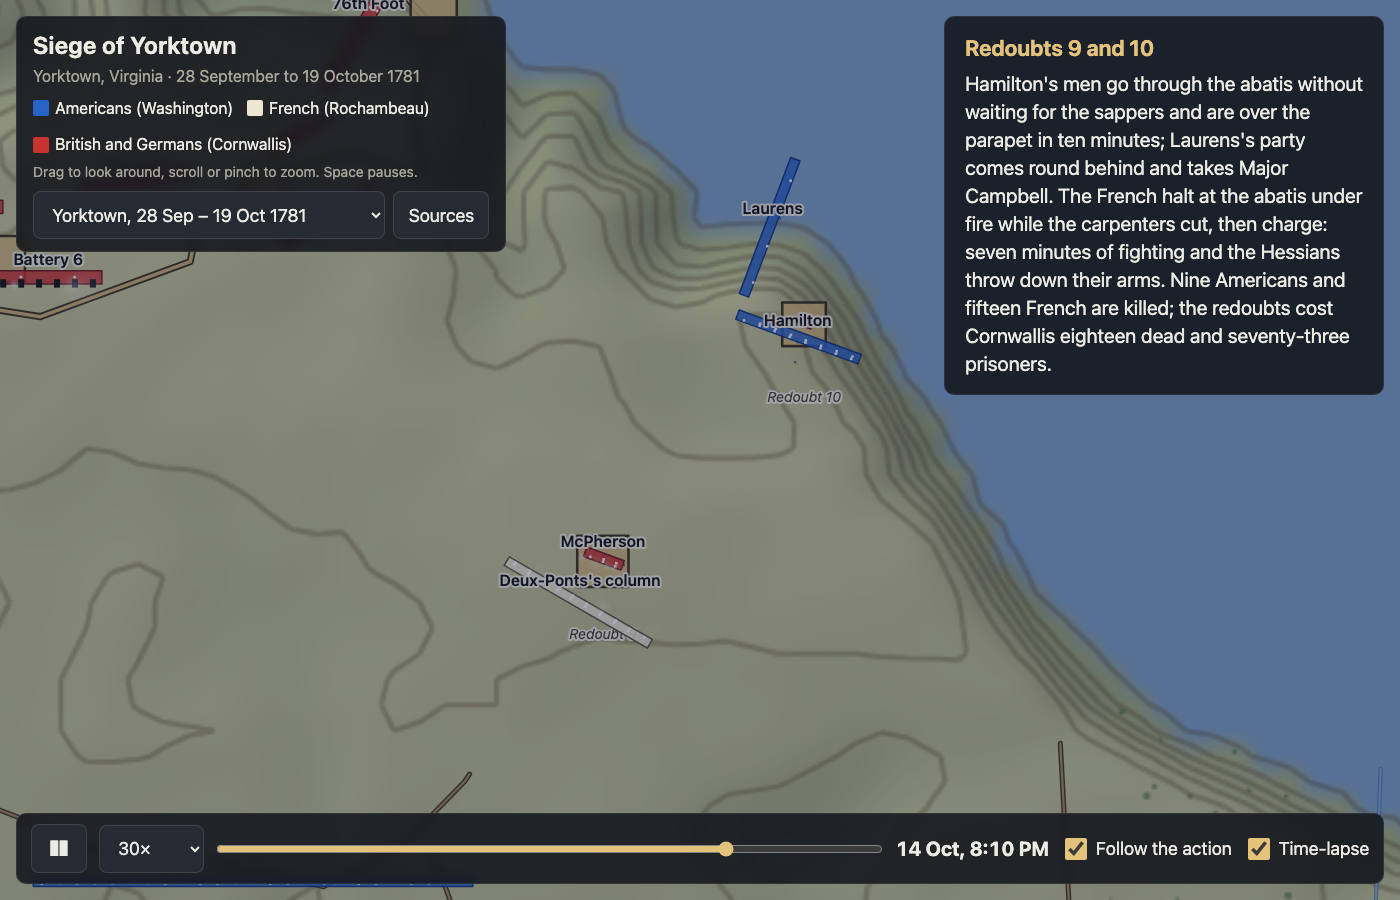
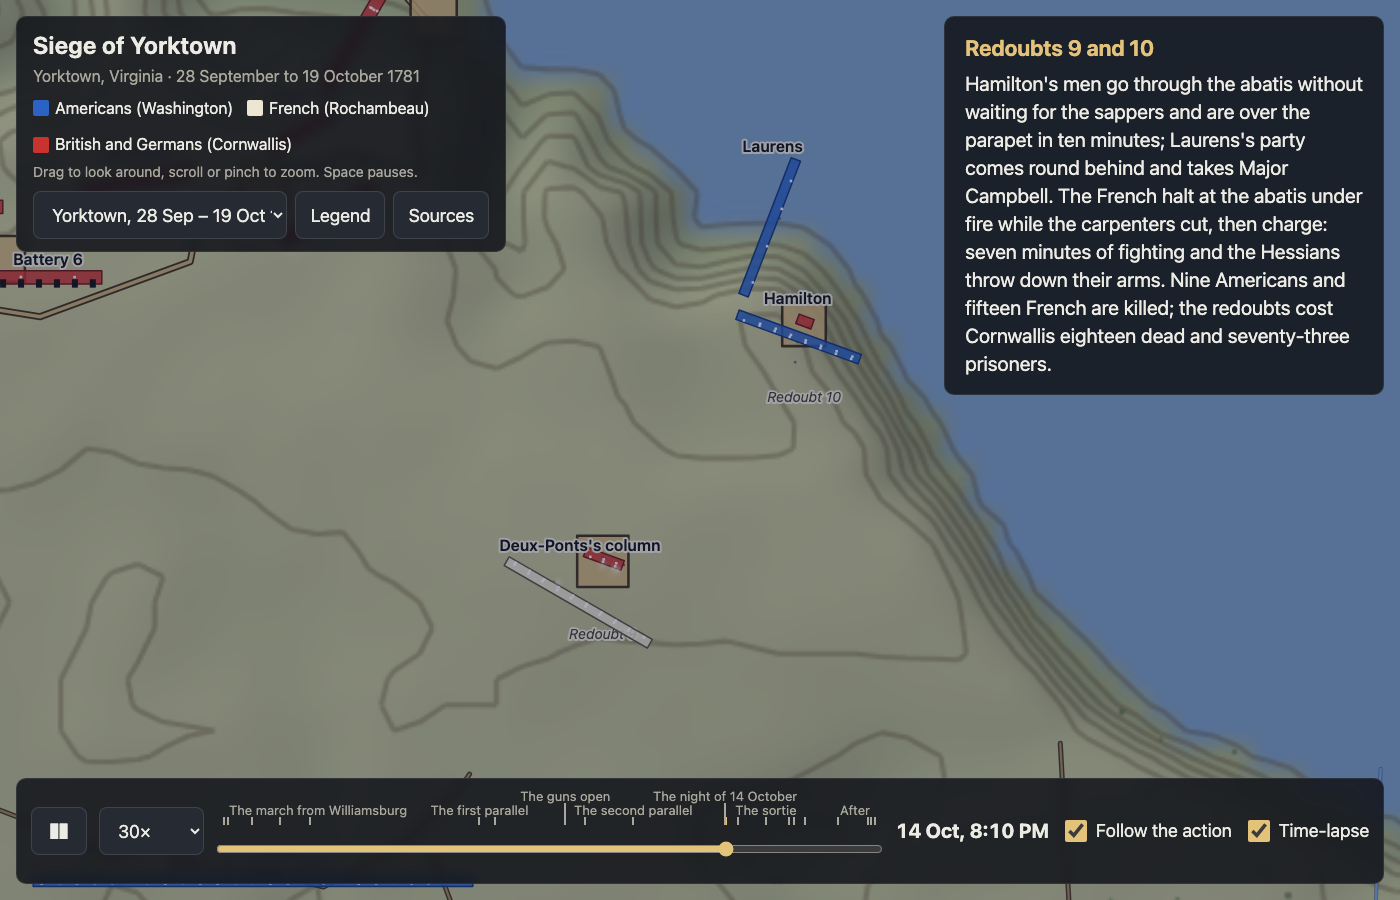
Chapter marks on the scrubber, a legend, labels on every unit
Ticks above the scrubber, one per chapter, labelled on two rows where
they fit; click to jump and follow. A Legend button lists only the
symbols the current battle uses. Every unit now offers a label, so
marching columns are named; overlaps are still dropped biggest first.
Chapter marks are hidden on phones, where the scrubber is too narrow.

Claude-Session: https://claude.ai/code/session_01US5GXUxojnCZWhZHcue3aU

diff --git a/app.js b/app.js
@@ -4,7 +4,8 @@ const $ = s => document.querySelector(s);
 const canvas = $('#map'), ctx = canvas.getContext('2d');
 const ui = { play: $('#play'), speed: $('#speed'), scrub: $('#scrub'), clock: $('#clock'), follow: $('#follow'), battle: $('#battle'),
   title: $('#title'), sub: $('#sub'), legend: $('#legend'), caption: $('#caption'), capTitle: $('#cap-title'), capText: $('#cap-text'),
-  hover: $('#hover'), sources: $('#sources'), srcBtn: $('#src-btn'), srcList: $('#src-list'), lapse: $('#lapse') };
+  hover: $('#hover'), sources: $('#sources'), srcBtn: $('#src-btn'), srcList: $('#src-list'), lapse: $('#lapse'),
+  marks: $('#marks'), legendBtn: $('#legend-btn'), legendDlg: $('#legend-dlg'), legendList: $('#legend-list') };
 
 let B = null, T = null, layer = null;
 let t = 0, playing = false, speed = 10, curEvent = null, shownEvent = null;
@@ -31,6 +32,7 @@ async function loadBattle(id) {
   for (const s of SPEEDS) if (s <= 120 || dur / s >= 120) ui.speed.add(new Option(`${s}×`, s)); // the big speeds only when the battle lasts
   ui.speed.value = speed;
   ui.scrub.min = b.startT; ui.scrub.max = b.endT;
+  buildMarks(b); buildLegend(b);
   ui.title.textContent = b.name;
   ui.sub.textContent = `${b.place} · ${b.dateText ?? b.date}`;
   ui.legend.innerHTML = Object.values(b.sides).map(s => `<span><i style="background:${s.color}"></i>${s.name}</span>`).join('');
@@ -39,9 +41,10 @@ async function loadBattle(id) {
   cam = { x: v.x, y: v.y, zoom: Math.min(W, H) / v.width };
   follow = true; ui.follow.checked = true; lapse = true; ui.lapse.checked = true;
   clampCam();
-  const [, , at, play, warp] = location.hash.match(/^#([^@,]*)(?:@([^,]+))?(,play)?(,warp)?$/) ?? [];
+  const [, , at, play, warp, legend] = location.hash.match(/^#([^@,]*)(?:@([^,]+))?(,play)?(,warp)?(,legend)?$/) ?? [];
   seek(at ? parseTime(at) : b.startT);
   if (play) setPlaying(true);
+  if (legend) ui.legendDlg.showModal(); // screenshots
   document.body.classList.toggle('nofade', !!warp); // screenshots: skip the caption fade
   if (warp) for (let i = 0; i < 300; i++) step(1 / 60); // five seconds of frames for screenshots
   location.hash = id;
@@ -302,7 +305,10 @@ function drawUnits() {
       }
     }
     if (u.type === 'artillery') drawGuns(u, p, z);
-    if (wPx >= 30) labels.push({ text: u.short ?? u.name, x: sx, y: sy - Math.max(hPx, D * z) - 12, size: Math.min(17, 12 + z * 3), men: p.strength });
+    // Every unit offers a label just above its topmost corner (a marching column is narrow but long); the overlap pass below thins them.
+    const s = Math.sin((p.h * Math.PI) / 180), c = Math.cos((p.h * Math.PI) / 180);
+    const top = -Math.abs((wPx / 2) * s) + Math.min(-2 * c, (hPx + 1) * c);
+    labels.push({ text: u.short ?? u.name, x: sx, y: sy + top - 11, size: Math.min(17, 12 + z * 3), men: p.strength });
   }
   // Bigger units get their label first; a label that would overlap one already placed is dropped this frame.
   for (const l of labels.sort((a, b) => b.men - a.men)) {
@@ -367,6 +373,87 @@ function drawNight() {
   ctx.fillRect(0, 0, W, H);
 }
 
+// ---------- chapter marks and legend ----------
+
+// One tick per chapter above the scrubber, labelled where there is room; click to jump there.
+let marks = [];
+function buildMarks(b) {
+  ui.marks.innerHTML = '';
+  marks = b.events.map(ev => {
+    const el = document.createElement('button');
+    el.textContent = ev.title; el.title = `${ev.title} · ${fmtTime(ev.t)}`;
+    el.onclick = () => { follow = true; ui.follow.checked = true; seek(ev.t); };
+    ui.marks.append(el);
+    return el;
+  });
+  layoutMarks();
+}
+// Labels go on the lower row, then the upper row, else become a bare tick. An upper label's tick runs down
+// through the lower row, so neither row may put text across the other's tick.
+function layoutMarks() {
+  const tw = ui.marks.clientWidth, dur = B.endT - B.startT, right = [-Infinity, -Infinity], lows = [], ups = [];
+  marks.forEach((el, i) => {
+    const px = ((B.events[i].t - B.startT) / dur) * tw;
+    el.classList.remove('tick', 'up');
+    const w = el.offsetWidth, L = Math.max(0, Math.min(tw - w, px - w / 2)), R = L + w;
+    let row = -1;
+    if (w < tw && L >= right[0] + 6 && !ups.some(x => x > L - 3 && x < R + 3)) { row = 0; lows.push([L, R]); }
+    else if (w < tw && L >= right[1] + 6 && !lows.some(([a, b]) => px > a - 3 && px < b + 3)) { row = 1; ups.push(px); }
+    if (row < 0) el.classList.add('tick'); else { right[row] = R; if (row) el.classList.add('up'); }
+    const left = row < 0 ? px - 7 : L;
+    el.style.left = `${left}px`; el.style.setProperty('--tick', `${px - left}px`);
+  });
+}
+
+const SVG = (inner, w = 64, h = 28) => `<svg width="${w}" height="${h}" viewBox="0 0 ${w} ${h}" aria-hidden="true">${inner}</svg>`;
+// A unit block as the map draws it: solid body, dark outline, one white dot per menPerDot men.
+function blockSvg(fill, stroke, { w = 56, h = 12, files = 9, ranks = 2, cav = false, alpha = 0.85, dot = 'rgba(255,255,255,0.92)', extra = '' } = {}) {
+  const x0 = (64 - w) / 2, y0 = (28 - h) / 2;
+  let d = '';
+  for (let r = 0; r < ranks; r++) for (let f = 0; f < files; f++)
+    d += `<rect x="${(x0 + (w / files) * (f + 0.5) - 1.5).toFixed(1)}" y="${(y0 + (h / ranks) * (r + 0.5) - (cav ? 3 : 1.5)).toFixed(1)}" width="3" height="${cav ? 6 : 3}" fill="${dot}"/>`;
+  return SVG(`<rect x="${x0}" y="${y0}" width="${w}" height="${h}" fill="${fill}" stroke="${stroke}" stroke-width="1.5" opacity="${alpha}"/>${d}${extra}`);
+}
+const lineSvg = (c1, w1, c2, w2) => SVG(`<path d="M4 14 L60 14" stroke="${c1}" stroke-width="${w1}" stroke-linecap="round"/>${c2 ? `<path d="M4 14 L60 14" stroke="${c2}" stroke-width="${w2}" stroke-linecap="round"/>` : ''}`);
+const polySvg = (pts, fill, bg) => SVG(`${bg}<polygon points="${pts}" fill="${fill}" stroke="rgba(50,35,15,0.9)" stroke-width="2"/>`);
+
+// Only the symbols this battle uses.
+function buildLegend(b) {
+  const sides = Object.values(b.sides), s0 = sides[0], mpd = b.menPerDot, iv = b.contourInterval ?? 5;
+  const types = new Set(b.units.map(u => u.type)), states = new Set(b.units.flatMap(u => u.keys.map(k => k.state)));
+  const feats = new Set((b.features ?? []).map(f => f.type));
+  const bg = `<rect width="64" height="28" fill="${b.palette?.ground ?? '#a8ad7a'}"/>`;
+  const scatter = (pts, mark) => SVG(`${bg}${pts.map(([x, y], i) => mark(x, y, i)).join('')}`);
+  const rows = [
+    ...sides.map(s => [SVG(`<rect x="4" y="4" width="56" height="20" rx="3" fill="${s.color}"/>`), s.name]),
+    [blockSvg(s0.color, s0.dark), `Infantry. Each white dot is ${mpd} men; the rows are ranks.`],
+    (types.has('militia') || types.has('riflemen')) && [blockSvg(s0.light ?? s0.color, s0.dark), 'Militia and riflemen, in the lighter shade.'],
+    states.has('column') && [blockSvg(s0.color, s0.dark, { w: 12, h: 26, files: 3, ranks: 6 }), 'A column on the march: narrow and long.'],
+    types.has('cavalry') && [blockSvg(s0.color, s0.dark, { h: 16, cav: true }), 'Cavalry: taller dots, a mounted man each.'],
+    types.has('artillery') && [blockSvg(s0.color, s0.dark, { w: 42, h: 8, files: 6, ranks: 1, extra: [18, 32, 46].map(x => `<rect x="${x - 2.5}" y="7" width="5" height="7" fill="#141414"/>`).join('') }), 'Artillery. Each dark square is a gun.'],
+    (states.has('skirmish') || b.units.some(u => u.loose)) && [blockSvg(s0.color, s0.dark, { h: 7, files: 7, ranks: 1 }), 'Skirmishers and open order: one thin, spread-out rank.'],
+    states.has('rout') && [blockSvg(s0.color, s0.dark, { alpha: 0.5 }), 'Broken and running: faded.'],
+    states.has('surrender') && [blockSvg('#9a9a92', '#55554f', { dot: '#e8e8e2' }), 'Surrendered: grey.'],
+    [scatter([[8, 6], [20, 18], [31, 9], [44, 20], [55, 7], [15, 22], [38, 5], [50, 15], [26, 14]], (x, y, i) => `<rect x="${x}" y="${y}" width="3" height="3" fill="${sides[i % sides.length].dark ?? '#3a2a20'}" opacity="0.6"/>`),
+      `Where men fell: a dark mark for every ${mpd} men a unit lost, in that side's colour.`],
+    [SVG(`<rect x="22" y="18" width="20" height="6" fill="${s0.color}" stroke="${s0.dark}"/><circle cx="30" cy="12" r="5" fill="#d8d4c8" opacity="0.5"/><circle cx="40" cy="9" r="7" fill="#d8d4c8" opacity="0.4"/><circle cx="50" cy="6" r="8" fill="#d8d4c8" opacity="0.3"/><rect x="26" y="15" width="3" height="3" fill="#fff1a8"/>`),
+      'Powder smoke drifts downwind from units firing.'],
+    (feats.has('redoubt') || feats.has('battery')) && [polySvg('14,22 14,8 26,4 38,4 50,8 50,22', POLY_FILL.redoubt, bg), 'Redoubt or battery: an earthwork fort.'],
+    feats.has('works') && [lineSvg(...FEATURE_STYLE.works), 'Fortified line of earthworks.'],
+    feats.has('trench') && [lineSvg(...FEATURE_STYLE.trench), 'Siege trench: the parallels and the approaches between them.'],
+    feats.has('camp') && [polySvg('6,6 58,6 58,22 6,22', POLY_FILL.camp, bg), 'Camp.'],
+    feats.has('ship') && [polySvg('6,10 54,10 60,16 50,22 10,22', POLY_FILL.ship, bg), 'Ship.'],
+    feats.has('road') && [lineSvg(...FEATURE_STYLE.road), 'Road.'],
+    feats.has('creek') && [lineSvg(...FEATURE_STYLE.creek), 'Creek or stream.'],
+    feats.has('fence') && [lineSvg(...FEATURE_STYLE.fence), 'Fence.'],
+    b.water != null && [SVG(`<rect width="64" height="28" fill="${b.palette?.water ?? '#7f9fc0'}"/>`), 'River.'],
+    b.fields?.length && [SVG(`${bg}<rect x="10" y="4" width="54" height="24" fill="${b.palette?.field ?? 'rgba(232,220,170,0.45)'}"/>`), 'Open field or cleared ground.'],
+    b.trees?.density && [scatter([[8, 8], [20, 20], [30, 7], [44, 18], [56, 9], [14, 24], [38, 24], [52, 24], [26, 15]], (x, y) => `<circle cx="${x}" cy="${y}" r="3" fill="${b.palette?.tree ?? 'rgba(60,85,40,0.5)'}"/>`), 'Woods.'],
+    [SVG(`${bg}<path d="M0 22 Q16 12 32 16 T64 6 M0 10 Q20 2 40 8 T64 0" fill="none" stroke="rgba(80,60,30,0.5)"/>`), `Contour lines every ${iv} m (${Math.round(iv * 3.28)} ft) of height; shading shows the slopes.`],
+  ];
+  ui.legendList.innerHTML = rows.filter(Boolean).map(([sw, text]) => `<div>${sw}</div><div>${text}</div>`).join('');
+}
+
 // ---------- hud and controls ----------
 
 function updateHud() {
@@ -377,6 +464,7 @@ function updateHud() {
     ui.capTitle.textContent = curEvent?.title ?? '';
     ui.capText.textContent = curEvent?.text ?? '';
     ui.caption.classList.toggle('show', !!curEvent);
+    marks.forEach((m, i) => m.classList.toggle('on', B.events[i] === curEvent));
   }
   let best = null, bd = 28;
   if (mouse) for (const u of B.units) {
@@ -403,6 +491,7 @@ ui.follow.onchange = () => { follow = ui.follow.checked; };
 ui.lapse.onchange = () => { lapse = ui.lapse.checked; };
 ui.battle.onchange = () => loadBattle(ui.battle.value);
 ui.srcBtn.onclick = () => ui.sources.showModal();
+ui.legendBtn.onclick = () => ui.legendDlg.showModal();
 addEventListener('keydown', e => {
   if (['INPUT', 'SELECT', 'BUTTON'].includes(e.target.tagName)) return;
   if (e.code === 'Space') { e.preventDefault(); ui.play.click(); }
@@ -419,6 +508,7 @@ function resize() {
   canvas.style.width = W + 'px'; canvas.style.height = H + 'px';
 }
 addEventListener('resize', () => { resize(); if (B) clampCam(); });
+new ResizeObserver(() => B && layoutMarks()).observe(ui.marks); // the track also narrows when the clock text widens
 resize();
 
 function frame(now) {
@@ -435,7 +525,7 @@ for (const b of list) {
   if (!groups.has(b.war)) { const g = document.createElement('optgroup'); g.label = b.war; groups.set(b.war, g); ui.battle.add(g); }
   groups.get(b.war).append(new Option(b.name, b.id));
 }
-const want = location.hash.slice(1).split('@')[0];
+const want = location.hash.slice(1).split(/[@,]/)[0];
 ui.battle.value = list.some(b => b.id === want) ? want : list[0].id;
 await loadBattle(ui.battle.value);
 requestAnimationFrame(frame);

diff --git a/index.html b/index.html
@@ -25,28 +25,42 @@
   button { cursor: pointer; }
   button:hover, select:hover { background: #30353f; }
   #hover { padding: 12px 16px; font-size: 17px; line-height: 1.45; width: 340px; pointer-events: none; }
-  #caption { right: 16px; top: 16px; transform: translateY(-8px); width: min(440px, calc(100vw - 32px)); max-height: calc(100vh - 120px); overflow-y: auto; padding: 16px 20px; opacity: 0; transition: opacity 0.4s, transform 0.4s; }
+  #caption { right: 16px; top: 16px; transform: translateY(-8px); width: min(440px, calc(100vw - 32px)); max-height: calc(100vh - 160px); overflow-y: auto; padding: 16px 20px; opacity: 0; transition: opacity 0.4s, transform 0.4s; }
   #caption.show { opacity: 1; transform: none; }
   .nofade #caption { transition: none; }
   #cap-title { font-weight: 650; font-size: 22px; color: var(--accent); }
   #cap-text { font-size: 20px; margin-top: 6px; }
   #bar { left: 16px; right: 16px; bottom: 16px; padding: 10px 14px; display: flex; align-items: center; gap: 12px; }
   #play { width: 56px; min-width: 56px; font-size: 22px; }
-  #scrub { flex: 1; min-width: 80px; accent-color: var(--accent); height: 48px; margin: 0; }
+  #track { flex: 1; min-width: 80px; position: relative; padding-top: 36px; }
+  #scrub { display: block; width: 100%; accent-color: var(--accent); height: 48px; margin: 0; }
+  #marks { position: absolute; left: 8px; right: 8px; top: 0; height: 36px; }
+  #marks button { position: absolute; top: 0; z-index: 1; height: 36px; min-height: 0; padding: 14px 5px 8px; border: 0; border-radius: 4px; background: none; color: var(--muted); font-size: 13px; line-height: 14px; white-space: nowrap; }
+  #marks button::after { content: ''; position: absolute; left: var(--tick); bottom: 0; width: 2px; height: 8px; margin-left: -1px; background: currentColor; }
+  #marks button.up { padding: 0 5px 22px; } #marks button.up::after { height: 22px; }
+  #marks button.tick { z-index: 0; width: 14px; font-size: 0; }
+  #marks button.tick:hover { z-index: 2; width: auto; font-size: 13px; background: var(--panel); }
+  #marks button:hover, #marks button.on { color: var(--accent); } #marks button.on::after { width: 3px; }
   #clock { font-variant-numeric: tabular-nums; min-width: 92px; text-align: center; font-weight: 700; font-size: 20px; white-space: nowrap; }
   #bar label { display: inline-flex; align-items: center; gap: 6px; white-space: nowrap; }
   #bar input[type=checkbox] { width: 22px; height: 22px; accent-color: var(--accent); }
-  dialog { background: #1a1d24; color: var(--ink); border: 1px solid rgba(255,255,255,0.12); border-radius: 12px; max-width: min(640px, calc(100vw - 32px)); padding: 20px 24px; }
+  dialog { background: #1a1d24; color: var(--ink); border: 1px solid rgba(255,255,255,0.12); border-radius: 12px; max-width: min(640px, calc(100vw - 32px)); max-height: calc(100vh - 32px); padding: 20px 24px; }
   dialog::backdrop { background: rgba(0,0,0,0.55); }
   dialog h2 { margin: 0 0 10px; font-size: 18px; }
   dialog li { margin: 6px 0; }
+  #legend-dlg { max-width: min(900px, calc(100vw - 32px)); }
+  #legend-list { display: grid; grid-template-columns: auto 1fr; gap: 6px 12px; align-items: center; font-size: 16px; margin-bottom: 14px; }
+  #legend-list svg { display: block; }
+  #legend-hint { color: var(--muted); font-size: 15px; margin: 0 0 14px; }
+  @media (min-width: 720px) { #legend-list { grid-template-columns: auto 1fr auto 1fr; } }
   @media (max-width: 640px) {
     #top { left: 12px; right: 12px; top: 12px; max-width: none; padding: 10px 12px; }
     #top h1 { font-size: 18px; } #sub { font-size: 14px; } #hint, #legend { display: none; }
     select, button { min-height: 44px; padding: 6px 10px; font-size: 16px; }
     #hover { display: none; }
-    #bar { left: 12px; right: 12px; bottom: 12px; gap: 5px; padding: 8px 6px; } #bar label span { display: none; } #scrub { min-width: 40px; } #speed { padding: 6px 2px 6px 6px; }
-    #play { width: 48px; min-width: 48px; font-size: 20px; } #clock { min-width: 0; font-size: 15px; } #scrub { min-width: 30px; }
+    #bar { left: 12px; right: 12px; bottom: 12px; gap: 5px; padding: 8px 6px; } #bar label span { display: none; } #speed { padding: 6px 2px 6px 6px; }
+    #play { width: 48px; min-width: 48px; font-size: 20px; } #clock { min-width: 0; font-size: 15px; }
+    #track { min-width: 30px; padding-top: 0; } #marks { display: none; } /* no room for chapters on a phone's scrubber */
     #caption { top: auto; bottom: 88px; left: 12px; right: 12px; width: auto; max-height: 40vh; padding: 10px 14px; } #cap-title { font-size: 18px; } #cap-text { font-size: 16px; }
   }
 </style>
@@ -61,6 +75,7 @@
   <div id="hint">Drag to look around, scroll or pinch to zoom. Space pauses.</div>
   <div class="row">
     <select id="battle" aria-label="Battle"></select>
+    <button id="legend-btn">Legend</button>
     <button id="src-btn">Sources</button>
   </div>
 </section>
@@ -75,11 +90,18 @@
 <footer id="bar" class="panel">
   <button id="play" aria-label="Play">▶</button>
   <select id="speed" aria-label="Speed"></select>
-  <input id="scrub" type="range" step="1" aria-label="Battle time">
+  <div id="track"><div id="marks"></div><input id="scrub" type="range" step="1" aria-label="Battle time"></div>
   <span id="clock"></span>
   <label title="Camera follows the story"><input id="follow" type="checkbox" checked> <span>Follow the action</span></label>
   <label title="Hurry through the quiet stretches"><input id="lapse" type="checkbox" checked> <span>Time-lapse</span></label>
 </footer>
+
+<dialog id="legend-dlg">
+  <h2>Legend</h2>
+  <div id="legend-list"></div>
+  <p id="legend-hint">Point at any unit for its name, commander, strength and what it is doing.</p>
+  <form method="dialog"><button>Close</button></form>
+</dialog>
 
 <dialog id="sources">
   <h2>Sources</h2>

diff --git a/README.md b/README.md
@@ -27,7 +27,12 @@ On claw-mini the launch agent `com.vauseware.battle-sim` serves this folder on 1
 Static files only. `index.html` is the shell, `app.js` draws, `sim.js` is the DOM-free timeline
 logic. `#cowpens@07:45` opens a battle at a time of day (`#yorktown@1781-10-14T20:00` for a dated one);
 `#cowpens@07:45,play` starts it playing. `,warp` pre-runs five seconds of frames, which is how headless
-screenshots see smoke and the camera.
+screenshots see smoke and the camera; `,legend` opens the legend.
+
+The chapters sit above the scrubber as ticks: click one to jump there (the camera follows again).
+Labels are shown where they fit, on two rows; a bare tick names itself on hover. **Legend** in the
+top panel lists only the symbols the current battle uses. Every unit carries its name when there is
+room; labels that would overlap are dropped, biggest unit first.
 
 **Time-lapse** (on by default, key `t`) hurries through stretches where nothing moves: the clock runs
 at the battle's `lapse` rate until 90 seconds before the next movement, appearance or fight. A siege
